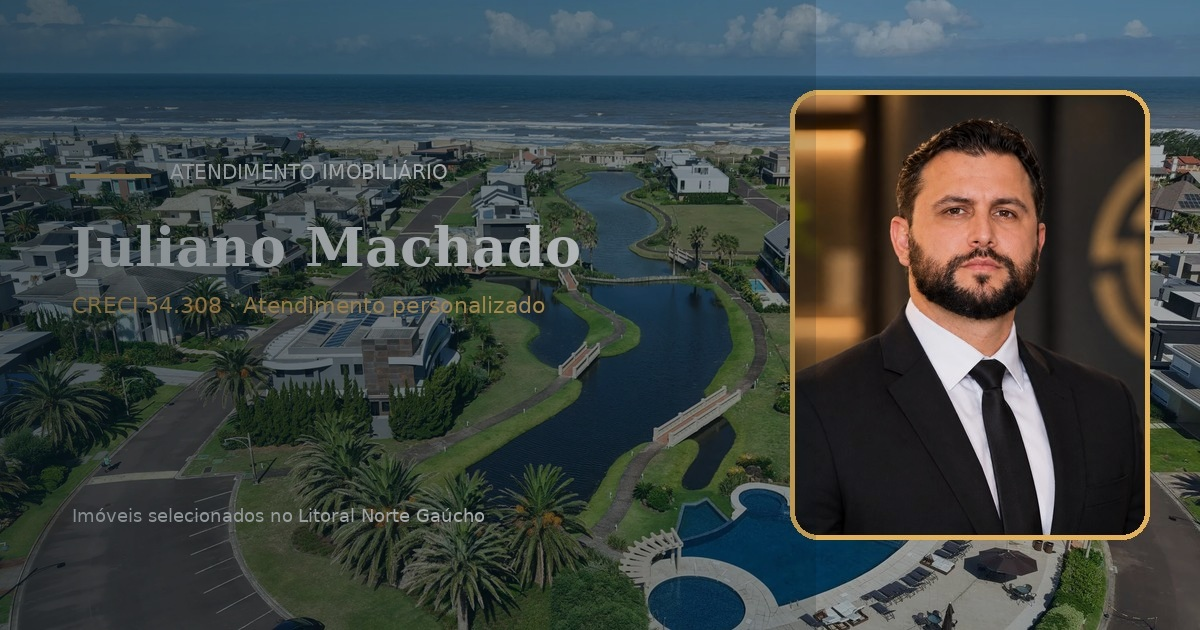
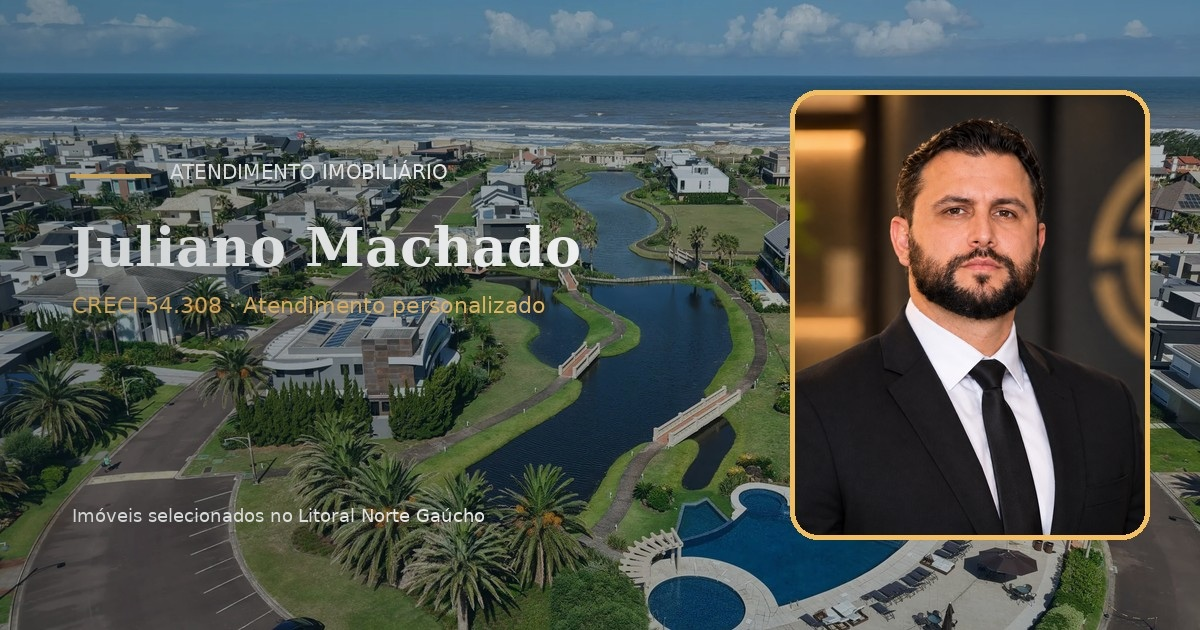
Ajusta contraste das previsualizacoes

diff --git a/tools/boost_og_contrast.py b/tools/boost_og_contrast.py
@@ -1,23 +1,24 @@
 from pathlib import Path
-from PIL import Image, ImageEnhance
+from PIL import Image
+import subprocess
 
-root = Path(__file__).resolve().parents[1] / "img" / "corretores" / "og"
-for path in sorted(root.glob("*.jpg")):
-    image = Image.open(path).convert("RGB")
+root = Path(__file__).resolve().parents[1]
+og = root / "img" / "corretores" / "og"
+for path in sorted(og.glob("*.jpg")):
+    original = subprocess.check_output(["git", "show", f"HEAD~1:img/corretores/og/{path.name}"], cwd=root)
+    image_path = root / ".og-original.jpg"
+    image_path.write_bytes(original)
+    image = Image.open(image_path).convert("RGBA")
     width, height = image.size
-    # Darken the complete artwork slightly, then add a stronger left-side veil
-    # where the name, CRECI and supporting copy are placed.
-    image = ImageEnhance.Brightness(image).enhance(0.93)
-    veil = Image.new("RGBA", (width, height), (0, 0, 0, 0))
-    pixels = veil.load()
+    veil = Image.new("RGBA", image.size, (0, 0, 0, 0))
+    vp = veil.load()
     for x in range(width):
-        if x < int(width * 0.68):
-            # strongest under text, fading smoothly toward the profile photo
-            alpha = int(122 - (x / (width * 0.68)) * 82)
-        else:
-            alpha = 0
+        # A restrained left-side gradient improves text contrast without
+        # changing the original typography or profile photo.
+        alpha = int(52 * max(0, 1 - x / (width * 0.72))) if x < width * 0.72 else 0
         for y in range(height):
-            pixels[x, y] = (4, 20, 28, alpha)
-    image = Image.alpha_composite(image.convert("RGBA"), veil).convert("RGB")
-    image.save(path, quality=94, optimize=True, progressive=True)
+            vp[x, y] = (5, 22, 30, alpha)
+    result = Image.alpha_composite(image, veil).convert("RGB")
+    result.save(path, quality=94, optimize=True, progressive=True)
     print(path.name)
+image_path.unlink(missing_ok=True)
